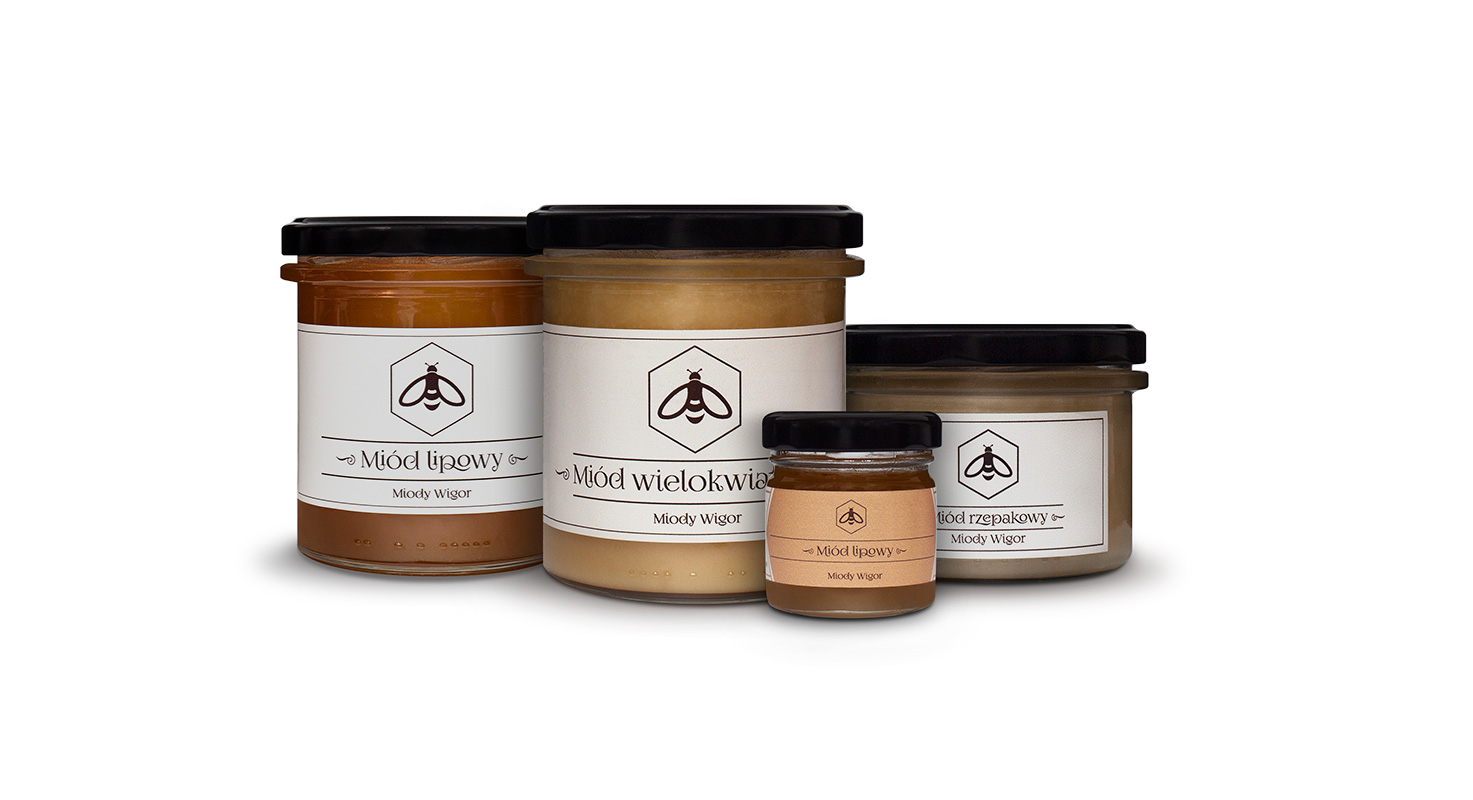
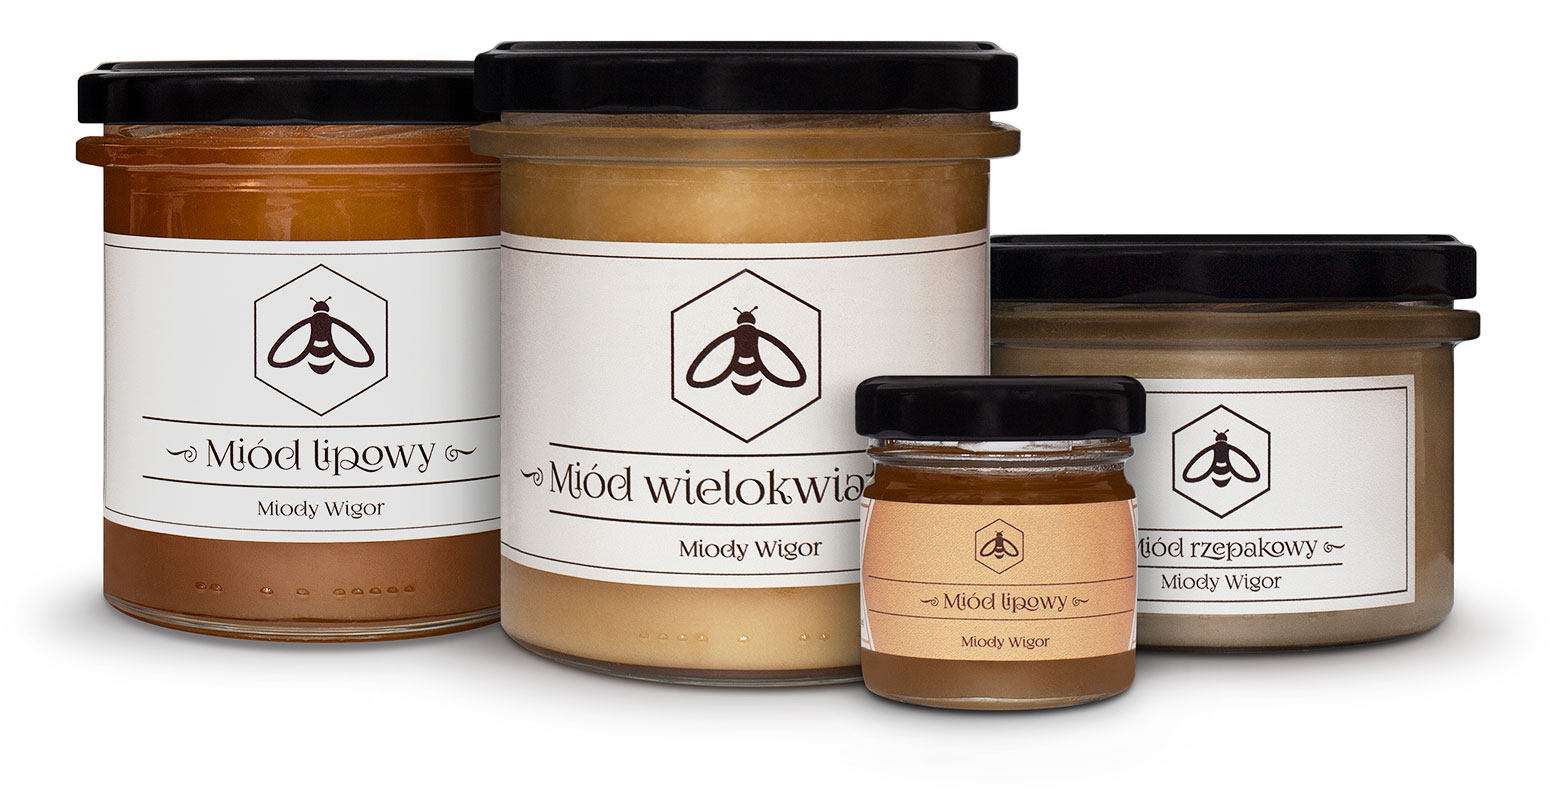
fff

diff --git a/public/css/product.css b/public/css/product.css
@@ -103,6 +103,13 @@
   object-fit: contain;
   
   }
+  .card-product-30 {
+  
+  width: 35%;
+  object-fit: contain;
+  
+   
+}
 .card-product-50 {
   
   width: 50%;

diff --git a/resources/views/produkt.blade.php b/resources/views/produkt.blade.php
@@ -17,7 +17,7 @@
     <p class="card-text lead">Definiujemy smak miodów na nowo</p>
     <a class="l" href="{{ url('/naszaoferta#dodatki') }}">Sprawdź naszą ofertę &raquo;</a>
   </div>
-  <img class="card-img-bottom mx-auto card-product-50 contain" src="pic/miody/all400.jpg" alt="Miody">
+  <img class="card-img-bottom mx-auto card-product-30 contain" src="pic/miody/odmianowe.jpg" alt="Miody">
 </div>
 
 
@@ -61,7 +61,7 @@
     <p class="card-text lead">Dobrze znane a jednocześnie coraz lepsze</p>
     <a class="l" href="{{ url('/naszaoferta#odmianowe') }}">Sprawdź naszą ofertę &raquo;</a>
   </div>
-  <img class="card-img-bottom card-product-50 mx-auto contain" src="pic/miody/odmianowe.jpg" alt="Miody" >
+  <img class="card-img-bottom card-product-30 mx-auto contain" src="pic/miody/odmianowe.jpg" alt="Miody" >
 </div>
 
 

diff --git a/resources/views/layouts/app.blade.php b/resources/views/layouts/app.blade.php
@@ -38,7 +38,7 @@
           <span class="navbar-toggler-icon"></span>
         </button>
         <div class="collapse navbar-collapse" id="navbarCollapse">
-         <ul class="navbar-nav mr-auto pl-5">
+          <ul class="navbar-nav mr-auto pl-5">
           <li class="nav-item">
             <a class="nav-link" href="{{ url('/') }}">Home <span class="sr-only">(current)</span></a>
           </li>
@@ -57,12 +57,10 @@
           <li class="nav-item">
             <a class="nav-link" href="{{ url('/kontakt') }}">Kontakt <span class="sr-only">(current)</span></a>
           </li>
-        </ul> 
+          </ul> 
+        </div>
       </div>
-    </div>
-
-  </nav> 
-
+    </nav> 
 </header>
 
 <main role="main">
